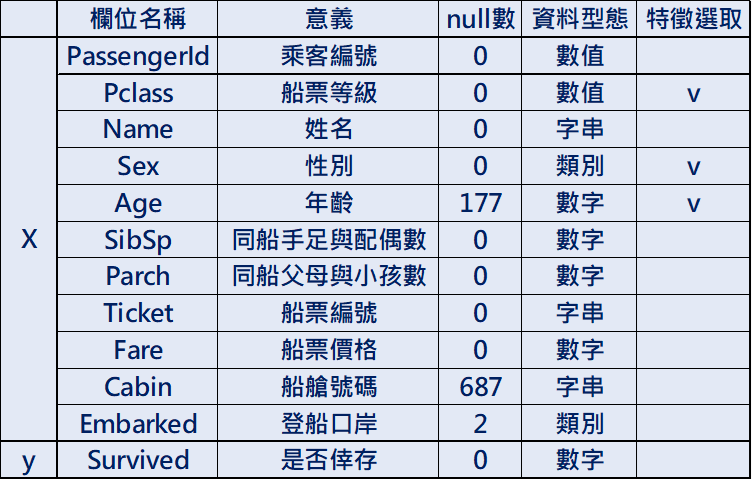
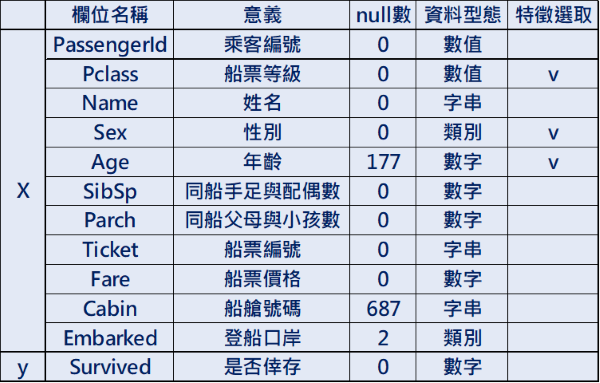
fix: remove unused line and resize image

diff --git a/README.md b/README.md
@@ -29,11 +29,6 @@
 
 ![image](https://github.com/yuhexiong/titanic-logistic-regression-python/blob/main/image/pclass-survive.png)
 
-
-## Layer
-
-![image](https://github.com/yuhexiong/digit-recognition-CNN-python/blob/main/image/cnn_layers.png)
-
 ## Confusion Matrix - Accuracy Rate 75.84%
 
 ![image](https://github.com/yuhexiong/titanic-logistic-regression-python/blob/main/image/confusion_mtx.png)
